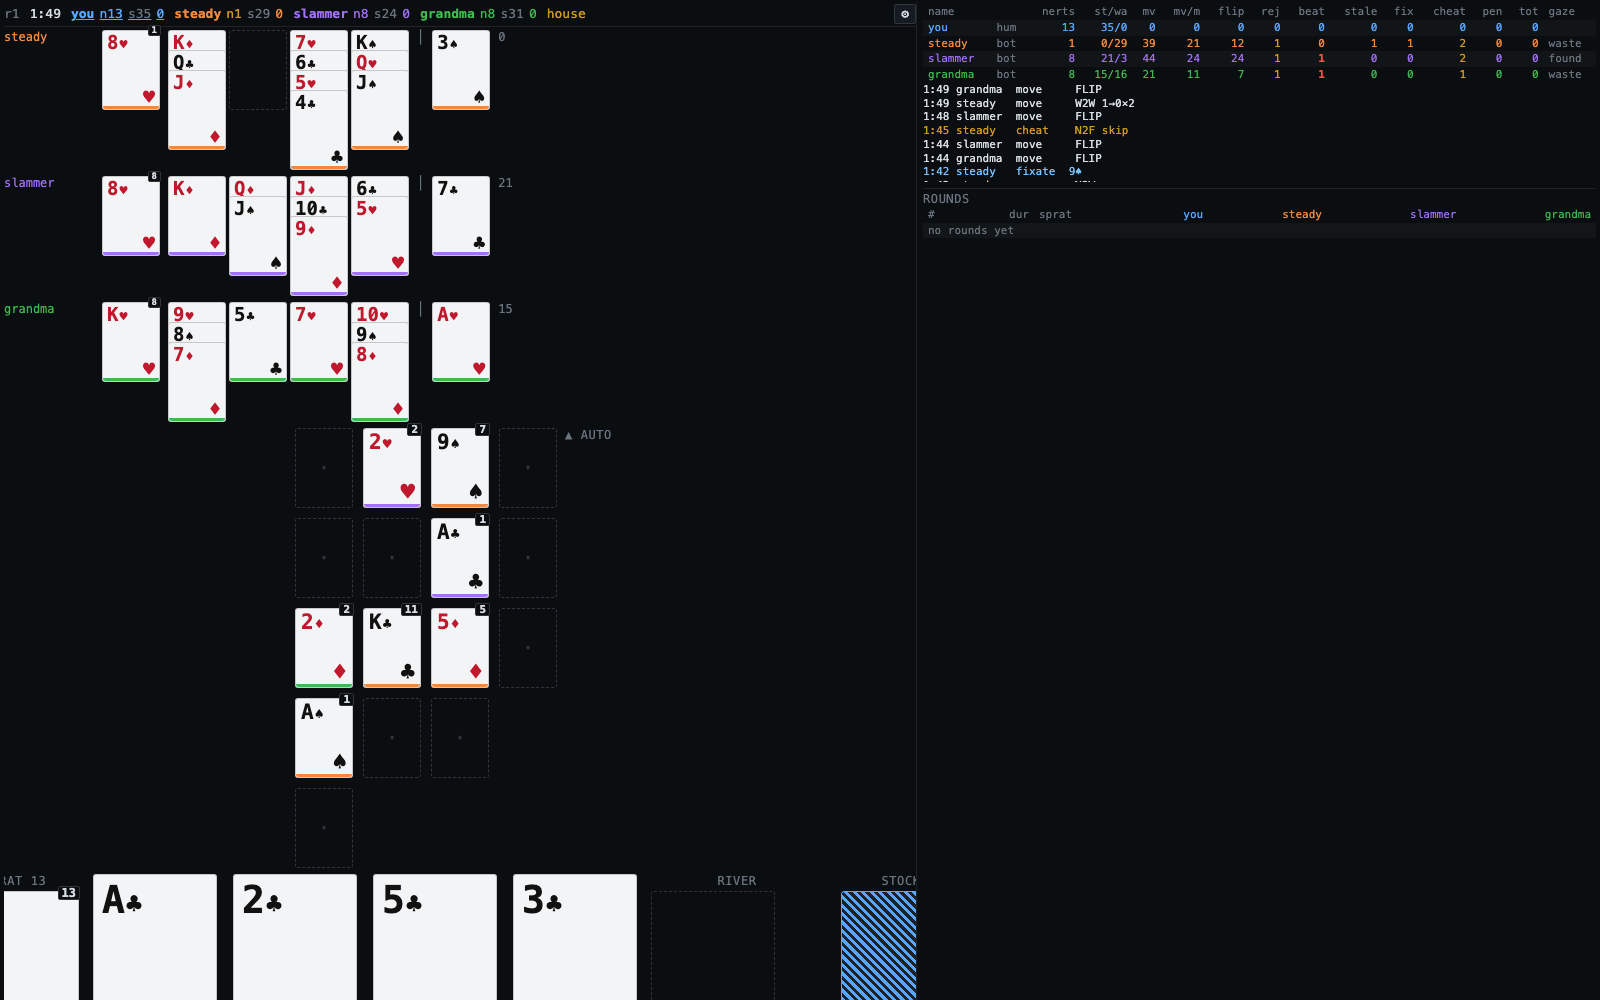
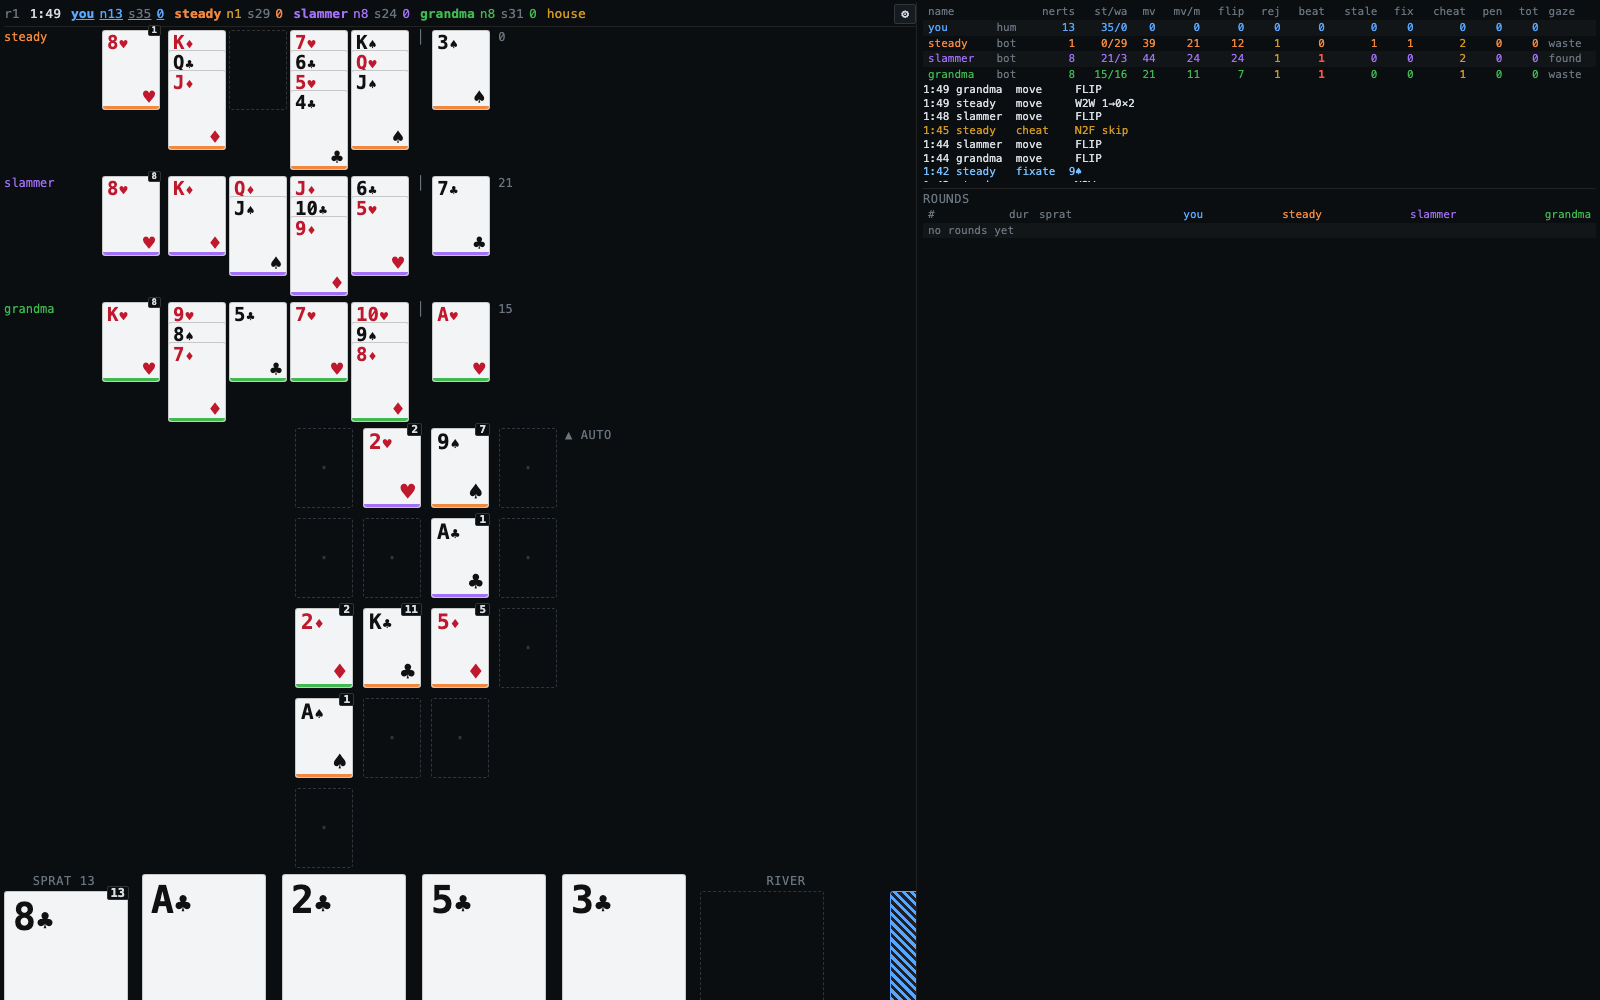
DESIGN.md: architecture/flow/state diagrams, annotated table screenshot, race trace, belief table, sweep charts, geometry + cheat walkthroughs; annotate script

Changed region(s): [[0.0, 0.868, 0.5, 1.0], [0.5, 0.868, 0.5938, 1.0]]

diff --git a/DESIGN.md b/DESIGN.md
@@ -3,101 +3,316 @@
 Sprat (≡ Nerts / Pounce / Racing Demon). Real-time multiplayer solitaire; the interesting engineering is
 not the rules but **modelling human attention** so bots lose contested plays the way people do.
 
-## Stack decision
+Contents: [stack](#stack) · [the table](#the-table) · [rules](#rules) · [bots](#bots--the-attention-model) ·
+[geometry](#table-geometry) · [cheating](#cheating-house-rules) · [sim](#headless-sim) · [calibration](#calibration) · [roadmap](#roadmap)
 
-TypeScript everywhere, one engine module (`src/engine`) shared by:
-- browser (solo vs bots, zero latency, works offline on a phone),
-- node server (authoritative; `ws`),
-- headless sim (10⁴× realtime; 50 three-bot rounds ≈ 0.3 s).
+---
 
-Rejected: FastAPI/misk backend. It would force a second rules implementation, and rules drift between
+## Stack
+
+TypeScript everywhere, **one engine module** shared by three hosts:
+
+```mermaid
+flowchart LR
+  subgraph engine["src/engine (pure, ~300 LoC)"]
+    R[rules.ts<br/>legalMoves · apply · allowedCells]
+    S[state.ts<br/>GameState · Move · deal]
+  end
+  subgraph bots["src/bots"]
+    B[bot.ts<br/>attention model]
+    P[profile.ts<br/>presets]
+  end
+  D[sim/driver.ts<br/>owns state + bots<br/>virtual or wall clock]
+  engine --> D
+  bots --> D
+  D --> SIM[sim/cli.ts<br/>10⁴× realtime<br/>sweeps, metrics]
+  D --> SRV[server/server.ts<br/>ws · rooms · redaction]
+  D --> WEB[web/main.ts<br/>LocalSession<br/>you vs bots, offline]
+  SRV <-->|JSON ≅ sprat.proto| WEB2[web/main.ts<br/>RemoteSession<br/>phones, spectators]
+  style engine fill:#161b22,stroke:#3fb950
+  style D fill:#161b22,stroke:#58a6ff
+```
+
+Rejected: a FastAPI/misk backend. It would force a second rules implementation, and rules drift between
 client-side prediction and server validation is the one bug class that would make the game feel wrong.
 `proto/sprat.proto` is the schema of record; v1 wire is JSON with identical field names (`buf generate`
-→ protobuf-es is a roadmap item, needed when the TUI/mobile clients aren't TS).
+→ protobuf-es is a roadmap item, needed once a non-TS client exists).
 
-## Rules (`engine/rules.ts`)
+`Driver` is the only thing that knows about time. `runVirtual()` pops a priority queue of bot wake-ups;
+`startReal()` uses `setTimeout` against `performance.now()`. Same bot code either way, so a preset that
+produces 3 "beaten" events per round in the sim does so at the table.
 
-Per Bicycle: 13-card nerts pile (top up), 4 work piles, stock flipped 3 at a time; foundations are
-shared, ace-up by suit; work piles build down alternating colour, runs move as a unit, anything fills an
-empty pile. Score +1/foundation card by deck, −2/nerts card left. Round ends on `NERTS` or stall
-(every player has cycled their stock with no non-flip move by anyone).
+---
 
-Engine is a mutating `apply(state, p, move) → ok|reject`; **contested plays are resolved purely by
-arrival order** at the engine — on the server, that's message order; in the sim, virtual-time order.
-Recycle+flip is one action (one physical motion).
+## The table
 
-House rules (`rules.houseRules`) widen the legal set with tagged cheats:
-- `skip`: same suit, gap 2–3 on a foundation (grandma skipping the 2). Pile gets `dirty`.
-- `miscount`: `FLIP n≠3`.
-- `CHALLENGE f`: inspect; if dirty, unwind to last clean card, return cards to owners' waste tops,
-  cheater −5; if clean, challenger −2. Humans inspect by tapping a pile (shows the fan).
+![annotated seat view](docs/annotated-table.png)
 
-## Bots (`bots/`) — the attention model
+Seat view: opponents on the far side, shared foundations in the middle, your piles nearest you.
+Everything is **tap-select → tap-target** (no drag), so phones and desktops use the same code path.
+Spectators get the full state and click names in the header to swap POV.
 
-A bot is a **sequential attention budget** stepped in a discrete-event loop. It never sees the whole
-state; it sees whatever its gaze is on, at a cost.
+Phone (390 px) uses the same layout at smaller card sizes:
 
-- `scanOrder`: the gaze loop, e.g. `nerts→found→work→waste` vs `nerts→waste→found→work` (river rat).
-- `cps`: comparisons/sec. Looking at region R costs `items(R)/cps` ms (`found` = #piles+1, `work` = 2×piles).
-  This is the primary calibration knob (§Calibration): count a human's visible comparisons/sec.
-- **Belief**: foundation tops are a snapshot taken when the gaze last landed on `found` (or when the bot
-  played there). Everything else it owns is read live *when scanned*. Candidates are generated from
-  belief, so a stale belief → attempted move → engine reject → event `stale` (nobody took it, I was
-  just wrong) or `beaten` (someone landed the same rank first — the "so close" moment we're tuning for).
-- `psychic ∈ [0,1]`: prob. the belief is refreshed for free at decision time. 1 = omniscient baseline.
-- `motorMs` / `flipMs`: decision → landed. The window during which you can be beaten.
-- Perception errors: `confusion` (rank ±1), `colorblind` (red/black), `eyestrain × pile.mess`.
-- Priorities: `wFoundation` (greed), `wUnblock` (nerts progress), `patience` = penalty for burying a
-  work card whose foundation is one away (keep the 3♥ singleton open when A♥ is up, even with a 2♣ in hand).
-- `fixation`: when nerts top is one-away, prob. of locking gaze on that pile (polling at 1/cps) for up
-  to `fixateMaxMs`, ignoring everything else. Produces the duel: two players both staring at ♥.
-- Tilt: after a reject, `cps *= tiltMult` for `tiltMs`.
-- Social: `slam` (salience of my placements) × other's `distract` → interrupt: they lose `stunMs` but
-  refresh belief. `messy` lands on the pile → raises everyone's misread prob. Sneaking (`slam≈0`)
-  keeps rivals' beliefs stale and cheats unnoticed.
-- `larceny` / `miscount` / `suspicion`: cheat attempt & inspection probabilities.
-- Anti-oscillation: refuses the inverse of its last W2W; shuffles into an empty pile only when it exposes
-  something useful.
+<img src="docs/mobile.png" width="260">
 
-Presets in `bots/profile.ts`: steady, twitchy, river, builder, grandma, auditor, uncle, slammer, sneak,
-psychic. `npm run sim -- --n 300 steady twitchy river` prints win%, score, rejects, beaten, stale.
-`--sweep cps=3,5,8,12` applies a parameter sweep to seat 0.
+---
 
-Tension metric = `beaten/game` (both in sim output and the live stats panel). Current 3-bot tables run
-~3/game over ~150 s rounds, which matches the feel of a family table; tune presets against that.
+## Rules
 
-## Clients
+Per [Bicycle](https://bicyclecards.com/how-to-play/nerts). Each player has their own deck (own back colour):
 
-- `web/`: vanilla DOM, tap-select → tap-target (no drag; works on phones). `?bots=steady,twitchy&house=1`
-  autostarts local; `?ws=ws://host:8787&room=fam&name=mom` joins a server room. Stats panel = per-player
-  moves/min, rejects, beaten, stale, fixations, cheats, bot gaze/tilt; event log.
-- `server/`: rooms, 2–8 seats, host adds bots, reconnect by name. Redaction per recipient
-  (`protocol.ts/redact`): others' nerts → top only, stock → hidden, waste → top 3.
-- Driver (`sim/driver.ts`) emits identical `BotEvent`s for humans (move/reject/beaten/stale), so the
-  stats panel and the calibration recorder treat people and bots uniformly.
+```
+ per player                                   shared
+ ┌──────────┐  ┌───┐┌───┐┌───┐┌───┐          foundations: A→K by suit, anyone plays
+ │ sprat 13 │  │ W ││ W ││ W ││ W │          first card there wins
+ │ top up   │  │ 0 ││ 1 ││ 2 ││ 3 │
+ └──────────┘  └───┘└───┘└───┘└───┘          score  +1 per foundation card (by deck)
+ ┌──────────┐  ┌──────┐                             −2 per sprat card left
+ │ stock 35 │→ │ river│ flip 3, top playable        −penalties (challenges)
+ └──────────┘  └──────┘ recycle when empty
+```
 
-## Calibration (roadmap, data already captured)
+Card = integer, `deck*52 + suit*13 + (rank-1)`; suits ♥♦♣♠ = 0..3. `isRed(c) = suit < 2`. Cheap to
+compare, trivially serialisable, and card ids persist across rounds (the UI uses that to animate the
+end-of-round "sort back to owners" for free).
 
-`Driver.log` records every attempt with `t`, `avail` (count of legal moves at that instant) — i.e. the
-latency from "a play became available" to "the human took it", per region. Fit: `cps` from
-median time-to-notice ÷ items in region; `scanOrder` from which region's plays get noticed first;
-`patience` from how often one-away cards get buried; `motorMs` from the server's `clientMs` vs
-arrival. Puzzle mode: freeze a state (`GameState` is plain JSON), show it, time the first tap.
+Where a card can go:
 
-## Strategy eval
+```mermaid
+flowchart LR
+  N[sprat top] -->|N2F| F[(foundation)]
+  N -->|N2W| W[work pile]
+  ST[stock] -->|FLIP ×3| R[river top]
+  R -->|S2F| F
+  R -->|S2W| W
+  W -->|W2F| F
+  W -->|W2W run| W
+  R -.->|recycle| ST
+  F -.->|CHALLENGE unwinds| R
+```
 
-Sweep one seat's profile against a fixed table (`--sweep`) and read score/win%. Questions to answer:
-is `river` or `builder` scanOrder better vs. a given table; what `patience` maximises score; does
-fixation pay. The engine is deterministic per seed, so A/B is paired.
+| move | legal when | notes |
+|---|---|---|
+| `N2F/S2F/W2F f` | `f=-1`: card is an ace → new pile at `cell`; else same suit & rank = top+1 | contested: **first to arrive at the engine wins**, later arrivals rejected |
+| `N2W/S2W w` | pile empty, or opposite colour & rank = top−1 | |
+| `W2W from n to` | bottom of the n-card run fits `to` | any suffix of a pile is a valid run by construction |
+| `FLIP` | stock or river non-empty | empty stock ⇒ recycle+flip in one motion |
+| `NERTS` | sprat pile empty | ends the round |
+| `ROTATE` | driver-issued on stall | everyone's stock: top → bottom; resume (family rule). Dead after 3 |
+
+Engine is a mutating `apply(state, p, move) → {ok} | {ok:false, why}`; on reject the state is untouched.
+Legality is pure and cheap (`legalMoves` ≈ 30 µs), so the sim logs *how many legal moves existed* at every
+attempt — that's the calibration signal (§Calibration).
+
+---
+
+## Bots — the attention model
+
+A bot is a **sequential attention budget**. It never sees the whole state; it sees whatever its gaze is on,
+at a cost, and acts on what it *believes*.
+
+```mermaid
+stateDiagram-v2
+  direction LR
+  [*] --> nerts
+  nerts --> found : items/cps ms
+  found --> work : refresh belief
+  work --> waste
+  waste --> nerts : FLIP if idle
+  found --> fixate : nerts top one-away<br/>p = fixation
+  fixate --> found : hit or timeout
+  state "pending move" as pend
+  nerts --> pend : candidate chosen
+  found --> pend
+  work --> pend
+  waste --> pend
+  pend --> nerts : landed (motorMs later)<br/>rescan from top
+  pend --> tilt : REJECT (beaten / stale)
+  tilt --> nerts : cps × tiltMult for tiltMs
+```
+
+### The race for the 2♥ (why "beaten" happens)
+
+Concrete trace, two bots, ♥ foundation currently `A`. `steady` (cps 5, motor 600) holds 2♥ on a work pile;
+`twitchy` (cps 11, motor 350) has 2♥ on top of its sprat pile. Three foundation piles on the table.
+
+```
+ t(ms)  steady                                     twitchy                              ♥ pile
+    0   look nerts   (1 item → 200ms)              look nerts (1 item → 90ms) → 2♥!      A
+   90                                              fTarget(2♥) via belief ♥=A → N2F
+                                                   motor 350 …
+  200   look found   (3 piles+1 → 800ms)
+        belief := {♥:A, ♦:2, ♣:K}
+  440                                              2♥ LANDS                               2
+ 1000   candidates from belief: W2F 2♥ → ♥        rescan from nerts …
+        motor 600 …                                                                       2
+ 1600   apply W2F → REJECT "foundation refuses"
+        top rank 2 ≥ my 2 ⇒ event BEATEN
+        tilt: cps 5→3 for 1500ms; look found
+        belief := {♥:2 …}  (my 2♥ is now dead weight)
+```
+
+steady's belief was correct at t=200 and wrong by t=440; it didn't look again until the rejection.
+That 1,160 ms window — scan latency + motor time — is the whole handicap. No dice roll decides who wins
+the 2♥; **arrival order at the engine does**, and arrival time is a function of where the gaze was.
+
+### Parameters (`bots/profile.ts`)
+
+| knob | what it models | first-order effect |
+|---|---|---|
+| `scanOrder` | the gaze loop: `nerts→found→work→waste` vs `nerts→waste→found→work` (river rat) | which plays get noticed first |
+| `cps` | comparisons/sec. Region cost = `items/cps` (`found` = Σ(1+reach·dist)+1, `work` = 2·piles) | **the** handicap knob (chart below) |
+| `motorMs`, `flipMs` | decision → landed | size of the window in which you can be beaten |
+| `psychic` ∈[0,1] | prob. belief is refreshed free at decision time; 1 = omniscient | surprisingly small (chart) |
+| `confusion`, `colorblind`, `eyestrain` | misread rank ±1 / red-black / pile `mess` | → `stale` rejections, accidental cheats |
+| `wFoundation`, `wUnblock`, `patience` | greed / sprat progress / cost of burying a one-away card | the 3♥-singleton dilemma |
+| `fixation`, `fixateMaxMs` | stare at one pile polling at 1/cps when sprat top is one-away | the duel: two people staring at ♥ |
+| `tiltMult`, `tiltMs` | flustered after a miss | cascading misses |
+| `slam`, `distract`, `stunMs` | salience of my placements × your susceptibility → interrupt (lose `stunMs`, refresh belief) | slamming disrupts *and* advertises |
+| `messy` | illegibility I leave on a pile; readers add `messy·eyestrain` | a slammer at the table raises everyone's stale rate ~2× |
+| `reach`, `farsight` | cost / misread per unit seat→cell distance | far piles are slow, rotated cards misread |
+| `spite` | place my ace near me and away from the leader | table politics |
+| `drift` | AR(1) on log cps, clamped ±0.8 (≈0.45×–2.2×) | attention ebbs and flows within a round |
+| `larceny`, `miscount`, `suspicion` | house rules: cheat attempt / miscounted flip / inspect probability | grandma |
+
+### Belief vs truth
+
+The bot's foundation knowledge is a snapshot; its own piles it reads live *when scanned*.
+
+```
+                 truth (engine)           steady's belief (t=200)     twitchy's belief (t=440)
+ ♥ pile          A 2                      A            ← stale        A 2
+ ♦ pile          A 2                      A 2                         A 2   ← psychic refresh
+ ♣ pile          A…K (13, done)           A…K                         A…K
+ own sprat top   2♥ (live)                2♥                          —
+ → candidates    —                        W2F 2♥→♥  (will be beaten)  none
+```
+
+Rejections are classified at the moment of failure: target pile top rank ≥ my rank ⇒ **beaten** (someone
+landed the same card first); otherwise **stale** (I misread, or the pile moved in a way that doesn't
+match my card). Both show in the stats panel; `beaten/game` is the tension metric.
+
+### What the sweeps say
+
+![sweeps](docs/sweep.svg)
+
+- Win% is monotone and roughly log-linear in `cps` (10% at 2 cps → 76% at 24 cps against three
+  `steady`s). **Measure a human's comparisons/sec and set cps to it** — that's the calibration.
+- `beaten/game` stays ≈1 per seat across the whole cps range: the handicap slows the bot without
+  removing the contested moments. That's the property we want.
+- `motorMs` matters less than expected (6× slower hands ≈ −10 pts). `psychic` barely matters at cps 5,
+  because the loop already revisits `found` every ~1.5 s; staleness is second-order to throughput.
+
+Anti-oscillation: refuses the inverse of its last W2W; only shuffles into an empty pile when it exposes
+something useful; freeing a whole pile is scored as sprat progress (`15 + wUnblock`) so it beats a river
+play even under the patience penalty (this was a real bug: `steady` sat on a J♦→Q♣ that would have freed
+a pile for its sprat card).
+
+---
+
+## Table geometry
+
+Foundations live on an integer grid centred on the table. New piles go on the **frontier** — empty cells
+4-adjacent to an existing pile — bounded by Chebyshev radius `⌈√(4n)/2⌉` so 16 decks fit in ≤5×5 but
+the shape is whatever the players make it. Seats sit around it at angles (seat 0 at the bottom).
+
+```
+                      seat 2 (grandma)  d=0.2 to K♣
+                            ▲
+                 ·   ┌───┐  ·                 ┌───┐ pile     · frontier slot
+                     │2♥ │                     d   normalised seat→cell distance
+            ·  ┌───┐ ├───┤ ┌───┐                   (far edge ≈ 1); bot read cost
+               │A♠ │ │K♣*│ │5♦ │                   = 1 + reach·d, misread += farsight·d
+               └───┘ └───┘ └───┘
+                 ·   ┌───┐  ·      ◄ seat 1 (slammer)
+                     │A♣ │
+                     └───┘
+                       ·
+                       ▼
+                  seat 0 (you)   d=0.9 to 2♥ — far side, slow to read
+```
+
+The viewer's render rotates the grid by the nearest quarter-turn so their seat is at the bottom; opponents
+are ordered left→right by their rotated angle. Humans tap a slot when holding an ace; omit `cell` and the
+engine picks the nearest allowed cell to your seat. Bots score cells by `−dist(me) + spite·dist(leader)`.
+
+---
+
+## Cheating (house rules)
+
+`rules.houseRules` widens the legal set with *tagged* moves. Nothing is a dice roll; it's all "someone
+has to notice".
+
+```
+ before                     grandma plays 3♥ (skips 2)        slammer rides it         auditor CHALLENGEs
+ ♥: A                       ♥: A 3   dirty=true               ♥: A 3 4                 unwind to last clean card
+                            event: cheat/skip                                          ♥: A        dirty=false
+                                                                                       3♥ → grandma's river top
+                                                                                       4♥ → slammer's river top
+                                                                                       grandma −5 (first bad card)
+ (clean pile challenged ⇒ challenger −2)
+```
+
+- `skip`: same suit, gap 2–3. The pile is flagged `dirty` (spectators see an amber inset; players don't).
+- `miscount`: `FLIP n∈{2,4}` — grandma "accidentally" lands on the card that unblocks her sprat pile.
+  Buttons under the stock in house mode.
+- `CHALLENGE f`: tap a pile to inspect the fan, then challenge.
+- **Accidental cheats are real**: an honest bot that misreads a pile (or a human who mis-taps) and lands a
+  card two ranks up is *accepted* under house rules, exactly like a wrong card sitting on a real pile
+  until someone notices. `steady` (larceny 0) logs the odd `cheat/skip` for this reason.
+- Sneaky placements (`slam≈0`) don't trigger other bots' belief refresh, so cheats survive longer.
+
+---
+
+## Headless sim
+
+```
+$ npm run sim -- --n 300 steady twitchy river
+games=300 avgdur=151.7s beaten/game=3.00 stalls=9
+bot        cps  motor  win%   score  moves  flips   rej  beaten  stale  nerts  cheat
+steady       5    600    16     0.7     45     22   1.0    1.00   0.00    5.3   0.00
+twitchy     11    350    57    10.9     75     41   9.4    0.99   3.30    2.9   0.00
+river        6    550    29     4.8     70     40   1.0    1.01   0.00    5.0   0.00
+```
+
+300 rounds in ~1 s. Deterministic per seed, so A/B comparisons are paired. `--sweep k=a,b,c` applies a
+parameter sweep to seat 0; `--house` enables grandma mode. Genuine stalls (no legal non-flip move for anyone)
+happen in ~2–5% of 3-bot rounds; the rotate rule resolves most.
+
+---
+
+## Calibration
+
+The data is already captured; the fit isn't written yet.
+
+```mermaid
+flowchart LR
+  H[human at the table] -->|moves + rejects| D[Driver.log<br/>t · move · ok · avail=#legal moves]
+  H -->|clientMs vs arrival| M[motorMs]
+  D --> N[time-to-notice per region<br/>= when a play became legal → when taken]
+  N --> C[cps ≈ median items/latency]
+  N --> O[scanOrder ≈ which region's<br/>plays are noticed first]
+  D --> PT[patience ≈ how often<br/>one-away cards get buried]
+  C & O & PT & M --> PR[BotProfile for this person]
+  PR --> SIM[sim: tune table so<br/>beaten/game ≈ 3]
+```
+
+Puzzle mode: freeze a `GameState` (plain JSON), show it, time the first tap. Compare to the sim's bots on
+the same position.
+
+---
 
 ## Roadmap
 
-- **Hints**: `Hint{to, move}` in the proto — a player points out a play to a rival. Costs the hinter
-  a scan; for a bot target it's an injected belief refresh + candidate; for a human it's a UI flash.
-  Table politics: help the trailing player, or help whoever's about to block the leader.
-- TUI client (node, same `Session` interface, blessed-free: raw ANSI + `readline` keys).
-- Async/turn-based variant: each "turn" = N seconds of attention budget; contested plays resolved
-  by a per-turn auction on declared intents. Weird but the belief model makes it tractable.
-- PWA manifest + service worker for the phone.
+- **Hints**: `Hint{to, move}` is in the proto. A player points out a play to a rival. Costs the hinter a
+  scan; for a bot target it's an injected belief refresh + candidate; for a human it's a UI flash.
+  Politics: help the trailing player, or help whoever's about to block the leader.
+- Human ace placement UI for near/far (bots already do it).
+- TUI client (node, same `Session` interface).
+- Async/turn-based variant: each "turn" = N seconds of attention budget; contested plays resolved by a
+  per-turn auction on declared intents.
+- PWA manifest + service worker for phones. Drag as an alternative to tap-tap.
 - `buf generate` and a protobuf binary transport once a non-TS client exists.
-- Bot handicap auto-tuning: given a human's measured `cps`, pick preset params so `beaten/game` ≈ 3.
+- Auto-handicap: given a measured human `cps`, pick bot params so `beaten/game` ≈ 3.
+- Lookahead for bot tableau play (currently greedy one-step scoring).
